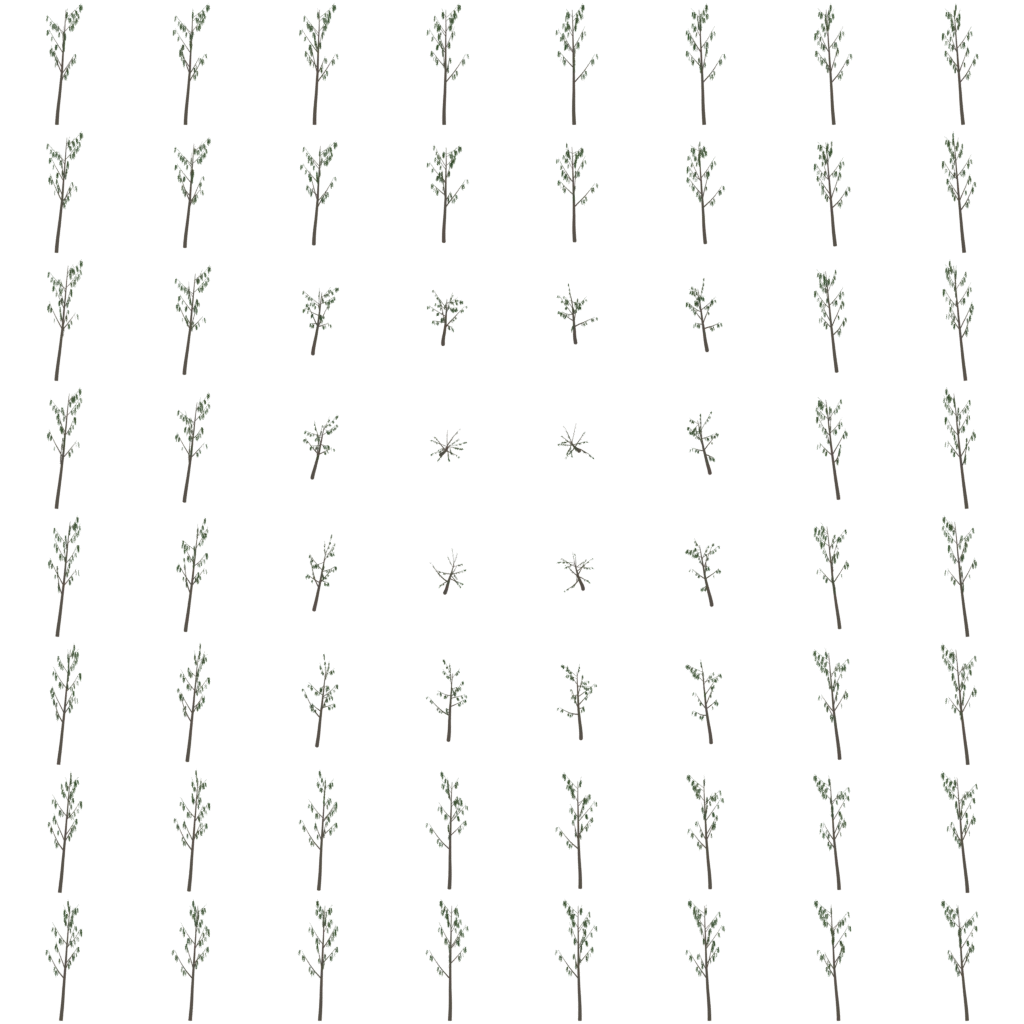
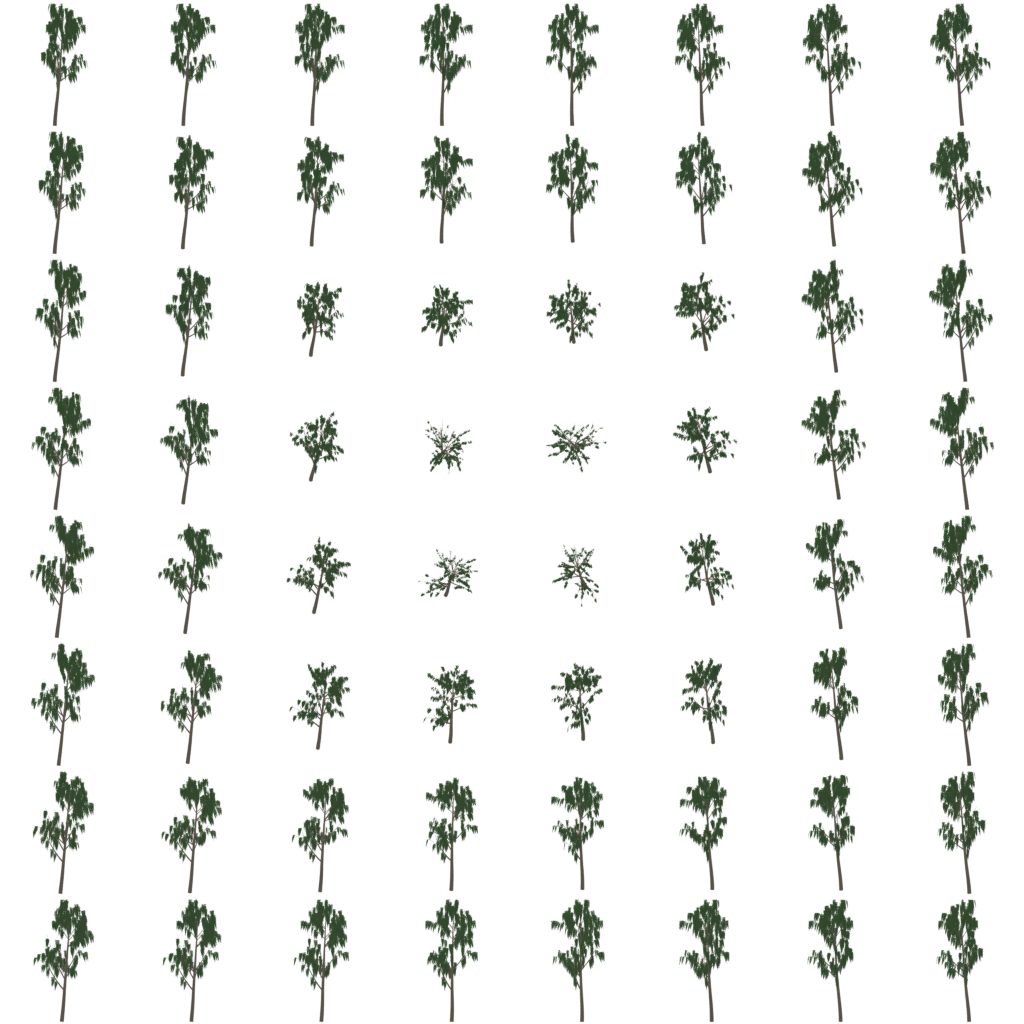
Hills: fix the beach lift, fuller woods, eye adaptation
- Island bake: the smooth max that joins the foothills to the massif
  added k/4 = 2.5 m wherever both were zero. That raised the whole beach
  and left a step at the waterline. The rounding now fades out where
  either input is near zero, and the erosion mask uses the same warped
  coastline as the heights.
- Woods:
  - Saplings (broadleaf at a third of the scale) fill the middle storey
    and ferns carpet the forest floor.
  - Ironwoods have forking limbs hung with dense sprays, from a new
    spray atlas and re-baked impostors.
  - Leaves transmit sunlight, so the canopy glows green from below
    instead of reading black.
- Forest floor: from afar the gaps between crowns read as shaded
  undergrowth. Up close the real shadows darken the floor, so the extra
  canopy shade no longer doubles up with them.
- Grass stays off the sand: blades need at least 30 % turf cover.
- Eye adaptation: a compute pass averages the frame's log luminance and
  reads it back asynchronously. Exposure then opens up under the canopy
  and closes again in the open, relative to what an open scene reads
  under the current sky. It is toggled in Graphics.
- Graphics > Vegetation detail scales the LOD distances (also ?veg=).

Claude-Session: https://claude.ai/code/session_01TZYmFMdZSUGdKYFGqVGCAn

diff --git a/ocean/src/render/exposure.js b/ocean/src/render/exposure.js
@@ -1,0 +1,63 @@
+// Eye adaptation.
+//
+// A one-thread compute pass averages the log luminance of the anti-aliased
+// HDR frame over a centre-weighted 16 x 16 grid; the value comes back to the
+// CPU a frame or two later (async readback, no stall). Exposure adapts
+// toward it relative to what an open, sunlit (or moonlit) scene would read
+// at this time of day - so walking into the forest opens the eyes up, while
+// the day/night exposure curve in main.js keeps doing the big changes.
+// Adaptation is partial (dark places stay darker) and takes about a second,
+// faster toward the light than toward the dark, like eyes.
+
+import * as THREE from 'three/webgpu';
+import { Fn, float, vec2, vec3, dot, log, exp, max, texture, instancedArray, Loop } from 'three/tsl';
+
+const GRID = 16;
+
+export class AutoExposure {
+  constructor(renderer, sourceTexture) {
+    this.renderer = renderer;
+    this.buffer = instancedArray(1, 'float');
+    this.kernel = Fn(() => {
+      const acc = float(0).toVar(), wsum = float(0).toVar();
+      // (one flat loop: nested TSL loops would share the index name)
+      Loop(GRID * GRID, ({ i }) => {
+        const uv = vec2(float(i.mod(GRID)).add(0.5), float(i.div(GRID)).add(0.5)).div(GRID);
+        const c = texture(sourceTexture, uv).level(0).rgb;
+        const lum = dot(c, vec3(0.2126, 0.7152, 0.0722));
+        // centre-weighted: what you look at matters most
+        const d = uv.sub(0.5).mul(2);
+        const w = max(float(1).sub(dot(d, d).mul(0.6)), 0.15);
+        acc.addAssign(log(max(lum, 1e-5)).mul(w));
+        wsum.addAssign(w);
+      });
+      this.buffer.element(0).assign(exp(acc.div(wsum)));
+    })().compute(1);
+    this.lum = null;
+    this.factor = 1;
+    this.pending = false;
+    this.frame = 0;
+    this.enabled = true;
+  }
+
+  /** reference: the log-average an open scene reads under this sky */
+  update(dt, refLuminance) {
+    if (!this.enabled) { this.factor = 1; return 1; }
+    if ((this.frame++ & 3) === 0 && !this.pending) {
+      this.renderer.compute(this.kernel);
+      this.pending = true;
+      this.renderer.getArrayBufferAsync(this.buffer.value).then((ab) => {
+        const v = new Float32Array(ab)[0];
+        if (Number.isFinite(v) && v > 0) this.lum = v;
+        this.pending = false;
+      }).catch(() => { this.pending = false; });
+    }
+    if (this.lum !== null && refLuminance > 0) {
+      // partial adaptation: dark places are opened up, but still read darker
+      const target = THREE.MathUtils.clamp(Math.pow(refLuminance / this.lum, 0.55), 0.75, 2.4);
+      const tau = target > this.factor ? 1.4 : 0.6;     // (seconds) slower opening, faster closing
+      this.factor += (target - this.factor) * (1 - Math.exp(-dt / tau));
+    }
+    return this.factor;
+  }
+}

diff --git a/ocean/src/world/vegetation.js b/ocean/src/world/vegetation.js
@@ -28,13 +28,14 @@ import { VILLAGE } from './island.js';
 const BASE = new URL('../../assets/vegetation/', import.meta.url);
 
 // distances (m): mesh LOD0 until `near`, LOD1 until `mid`, then the
-// impostor (trees) or a fade-out by `far` (undergrowth)
+// impostor (trees) or a fade-out by `far` (undergrowth); saplings are small
+// enough that the reduced mesh does from the start
 const SPECIES = {
   broad: { atlas: 'leaves_broad', near: 38, mid: 105, far: 1500, impostor: true, rad: 4.2, trunk: 0.34, bark: [0.2, 0.17, 0.14], flutter: 0.035, H: 13 },
   umbrella: { atlas: 'leaves_broad', near: 42, mid: 115, far: 1500, impostor: true, rad: 5.2, trunk: 0.3, bark: [0.23, 0.19, 0.15], flutter: 0.035, H: 11 },
   ironwood: { atlas: 'leaves_needle', near: 38, mid: 105, far: 1500, impostor: true, rad: 2.8, trunk: 0.22, bark: [0.16, 0.12, 0.09], flutter: 0.05, H: 14 },
   palm: { atlas: 'frond_palm', near: 55, mid: 140, far: 1500, impostor: true, rad: 2.6, trunk: 0.2, bark: [0.3, 0.27, 0.22], flutter: 0.06, H: 10 },
-  sapling: { model: 'broad', atlas: 'leaves_broad', near: 18, mid: 55, far: 700, impostor: true, rad: 1.6, trunk: 0.1, bark: [0.2, 0.17, 0.14], flutter: 0.04, H: 5 },
+  sapling: { model: 'broad', atlas: 'leaves_broad', near: 0.001, mid: 55, far: 700, impostor: true, rad: 1.6, trunk: 0.1, bark: [0.2, 0.17, 0.14], flutter: 0.04, H: 5 },
   shrub: { atlas: 'leaves_shrub', near: 28, mid: 75, far: 130, impostor: false, rad: 1.3, bark: [0.13, 0.1, 0.07], flutter: 0.04, H: 2 },
   fern: { atlas: 'frond_fern', near: 20, mid: 42, far: 58, impostor: false, rad: 0.8, bark: [0.1, 0.1, 0.05], flutter: 0.05, H: 0.9 },
 };
@@ -301,7 +302,10 @@ export class Vegetation {
     this._place();
     this._build();
     this.frame = 0;
+    this.lodScale = 1;          // Graphics > Vegetation detail: scales the LOD distances
   }
+
+  setDetail(v) { this.lodScale = v; this.lastX = undefined; }
 
   /** Where everything grows: trees from the baked forest cover, palms on
    *  the coastal strip and in damp hollows, scrub along forest edges and
@@ -488,8 +492,9 @@ export class Vegetation {
     this.lastX = cx; this.lastZ = cz;
     const m4 = new THREE.Matrix4(), q = new THREE.Quaternion(), s = new THREE.Vector3(), p = new THREE.Vector3();
     const up = new THREE.Vector3(0, 1, 0);
+    const k = this.lodScale;
     for (const e of this.sets) {
-      const { near, mid, far } = e.cfg;
+      const near = e.cfg.near * k, mid = e.cfg.mid * k, far = e.cfg.impostor ? e.cfg.far : e.cfg.far * k;
       const b0 = near * 0.12, b1 = mid * 0.12;
       let n0 = 0, n1 = 0, ni = 0;
       const imp = e.imp ? e.imp.geometry : null;

diff --git a/ocean/src/main.js b/ocean/src/main.js
@@ -35,6 +35,7 @@ import { Input } from './player/input.js';
 import { Player } from './player/player.js';
 import { Flashlight } from './player/flashlight.js';
 import { buildSettings } from './ui/settings.js';
+import { AutoExposure } from './render/exposure.js';
 import { env } from './env.js';
 
 const $ = (id) => document.getElementById(id);
@@ -222,6 +223,7 @@ async function start() {
   status('Growing trees…', 0.55);
   await nextFrame();
   const vegetation = await Vegetation.create({ scene, island, collision, terrain });
+  if (query.has('veg')) vegetation.setDetail(+query.get('veg') || 1);
   const boulders = await Boulders.create({ scene, island, collision, textures: terrainTextures });
   if (TEST) console.log('[veg] counts', JSON.stringify(vegetation.counts), 'boulders', boulders.counts);
   vegetation.update(camera);
@@ -272,6 +274,7 @@ async function start() {
   pipeline.post.push(droplets.node());
   pipeline.finals = [post.finalNode()];
   pipeline.build();
+  const autoExposure = app.autoExposure = new AutoExposure(renderer, pipeline.taaPass.getTextureNode().value);
   // reflections must ignore what lies behind the water surface
   water.preDepth = pipeline.preDepth;
 
@@ -396,7 +399,11 @@ async function start() {
     }
     // darker scenes get a little more exposure (eyes adapt at dusk and night)
     const adapt = THREE.MathUtils.lerp(1, 2.6, env.nightFactor.value) * THREE.MathUtils.lerp(1, 1.35, THREE.MathUtils.smoothstep(12 - app.sunEl, 0, 12));
-    renderer.toneMappingExposure = app.exposureBias * adapt;
+    // ...and to the place: what an open scene would read under this sky
+    const lumOf = (c) => c.r * 0.2126 + c.g * 0.7152 + c.b * 0.0722;
+    const refLum = 0.075 * (lumOf(env.sunColor.value) * Math.max(env.sunDir.value.y, 0) + lumOf(env.skyIrradiance.value));
+    renderer.toneMappingExposure = app.exposureBias * adapt * autoExposure.update(realDt, refLum);
+    if (TEST && debug.frame % 8 === 4) console.log(`[exposure] lum ${autoExposure.lum?.toFixed(4)} ref ${refLum.toFixed(4)} factor ${autoExposure.factor.toFixed(2)}`);
 
     // --- player + interaction
     if (input.pressed('Tab')) panel.toggle();

diff --git a/ocean/src/ui/settings.js b/ocean/src/ui/settings.js
@@ -98,6 +98,11 @@ export function buildSettings(app) {
   const baseDPR = Math.min(window.devicePixelRatio || 1, 2);
   panel.slider(gfx, { id: 'res', label: 'Resolution', min: 0.4, max: 1.5, step: 0.05, value: app.resolutionScale, format: (v) => `${Math.round(v * 100)}%`,
     onInput: debounce((v) => { app.resolutionScale = v; renderer.setPixelRatio(baseDPR * v); app.onResize?.(); }, 150) });
+  if (app.vegetation) {
+    panel.slider(gfx, { id: 'vegDetail', label: 'Vegetation detail', min: 0.4, max: 1.6, step: 0.05, value: app.vegetation.lodScale, format: (v) => `×${v.toFixed(2)}`,
+      onInput: (v) => { app.vegetation.setDetail(v); } });
+  }
+  if (app.autoExposure) panel.toggleRow(gfx, { id: 'adapt', label: 'Eye adaptation', value: app.autoExposure.enabled, onChange: (v) => { app.autoExposure.enabled = v; } });
   panel.slider(gfx, { id: 'ao', label: 'Ambient occlusion', min: 0, max: 1, step: 0.01, value: pipeline.aoIntensity.value, format: (v) => v.toFixed(2),
     onInput: (v) => { pipeline.aoIntensity.value = v; } });
   panel.slider(gfx, { id: 'contact', label: 'Contact shadows', min: 0, max: 1, step: 0.01, value: pipeline.contactStrength.value, format: (v) => v.toFixed(2),

diff --git a/ocean/src/world/terrain.js b/ocean/src/world/terrain.js
@@ -230,8 +230,10 @@ export class Terrain {
     albedo = albedo.mul(mix(vec3(1), grassTint, grassShare));
     // far away the canopy's shade stands in for tree shadows the far
     // cascade cannot resolve; up close the real shadows do it
+    // (and from afar the gaps between crowns show shaded undergrowth, not litter)
     const farShade = smoothstep(45, 110, length(positionWorld.sub(cameraPosition)));
-    albedo = albedo.mul(mix(float(1), 0.72, forestCov.mul(inland).mul(farShade)));
+    const under = forestCov.mul(inland).mul(farShade);
+    albedo = mix(albedo, vec3(0.028, 0.045, 0.018).mul(mix(0.8, 1.2, macro)), under.mul(0.85));
 
     // --- shoreline: wet sand, swash film, rounded leading edge, foam
     const t = time;

diff --git a/ocean/README.md b/ocean/README.md
@@ -92,6 +92,9 @@ float and bob with the waves; once you dive you stay at the depth you choose.
 - Frame graph: depth/normal/velocity prepass → GTAO and screen-space contact shadows →
   HDR scene with CSM shadows and sky IBL → water/volume composite → TAA → sharpening, motion
   blur and god rays → bloom → lens flare, vignette, grain → ACES.
+- Eye adaptation: the frame's log-average luminance (GPU, read back asynchronously) opens the
+  exposure up under the forest canopy and closes it again in the open, on top of the
+  day/night curve.
 - Motion vectors for everything that moves: the waves (last frame's FFT displacement and
   breaker profile), fish, birds and the boat. TAA reprojects them instead of dragging ghosts
   behind crests. A reactive mask covers what vectors can't describe (spray, glints).
@@ -105,8 +108,8 @@ float and bob with the waves; once you dive you stay at the depth you choose.
 
 Tab opens a panel with sea-state presets and the full wave spectrum (wind speed and direction,
 fetch, swell, choppiness, whitecaps), surf height and period, sun position and time flow,
-clouds, water optics, graphics options (resolution, AO, contact shadows, bloom, motion blur,
-flare, god rays, vignette, grain) and teleports.
+clouds, water optics, graphics options (resolution, vegetation detail, eye adaptation, AO,
+contact shadows, bloom, motion blur, flare, god rays, vignette, grain) and teleports.
 
 ## Code map
 
@@ -132,7 +135,7 @@ src/audio/audio.js       soundscape
 
 Debug URL parameters: `?test` (small software-GPU friendly settings), `?pano=2048`,
 `?sunEl=8&sunAz=250`, `?t=40&freeze`, `?spawn=fly`, `?off=grass,fish,whale,veg,village,boat,spray,wake,surf,reef,birds,crabs,motes`,
-`?waterDebug=1` (breaker state: breaking index, shore foam, thin lip) or `?waterDebug=2`
+`?veg=0.7` (vegetation LOD distance scale), `?waterDebug=1` (breaker state: breaking index, shore foam, thin lip) or `?waterDebug=2`
 (facing: above water, front face, break zone), `?nofit` (keep full resolution: by default a
 slow GPU gets a lower render resolution a few seconds after loading).
 
